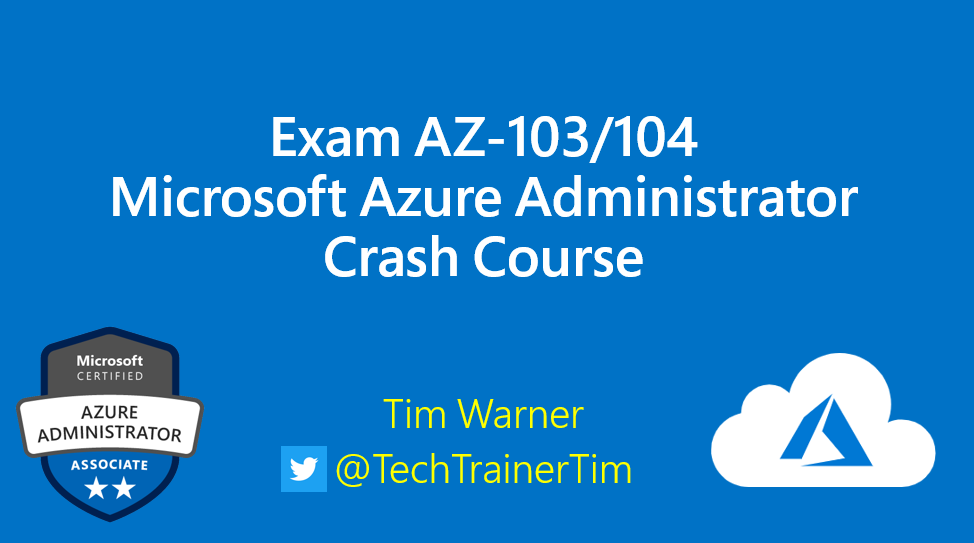
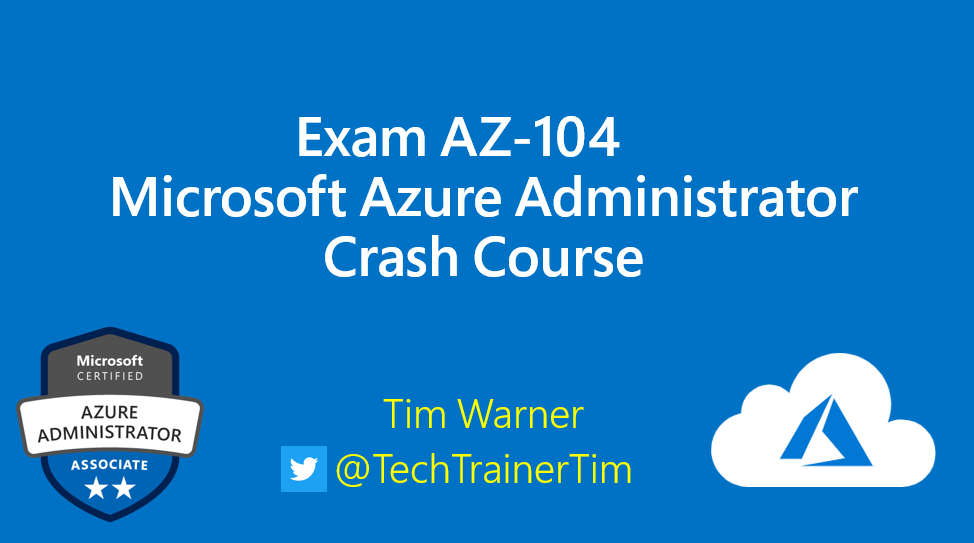
Update cover image

Changed region(s): [[0.2772, 0.2063, 0.7084, 0.2947]]

diff --git a/README.md b/README.md
@@ -1,5 +1,5 @@
 
-# Exam AZ-103/104: Microsoft Azure Administrator Crash Course
+# Exam AZ-104: Microsoft Azure Administrator Crash Course
 
 ### Instructor contact
 
@@ -9,4 +9,4 @@ Tim Warner
 * [Pluralsight author page](https://www.pluralsight.com/authors/tim-warner)
 * [Personal website](https://techtrainertim.com/)
 
-![AZ-103-cover-image](./cover.png)
+![AZ-104-cover-image](./cover.png)
